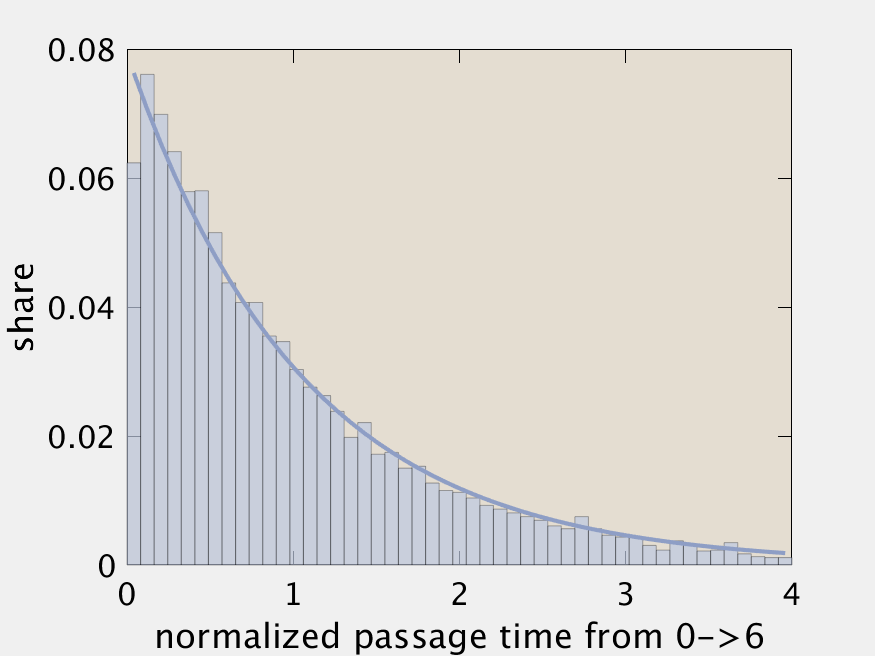
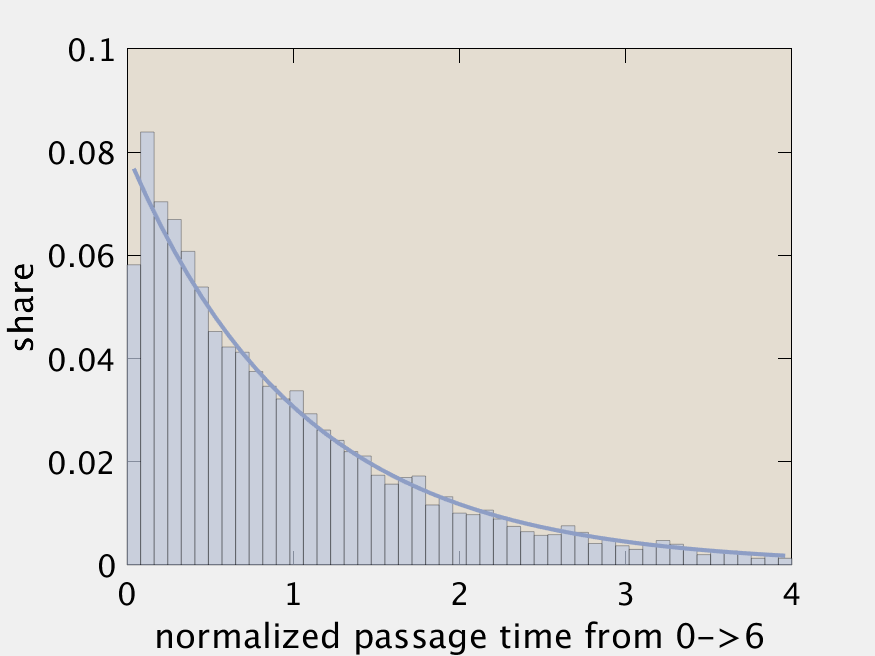
Another correction. Getting there

diff --git a/src/emergent_bursting01_calculations.m b/src/emergent_bursting01_calculations.m
@@ -205,7 +205,7 @@ save([DataPath, 'bursting_chain_calc_struct.mat'],'bursting_chain_calc_struct');
 ind_state_vec = [26 176]; % define the two states to lie at the extrema
 
 % set range of switching kinetics to explore
-slow_kinetics_array = [1./eff_toff_off_coop_vec' 1./eff_ton_off_coop_vec']; 
+slow_kinetics_array = [1./eff_ton_off_coop_vec' 1./eff_toff_off_coop_vec']; 
 
 % iterate through different numbers of rate-limiting steps
 bursting_step_calc_struct = struct;
